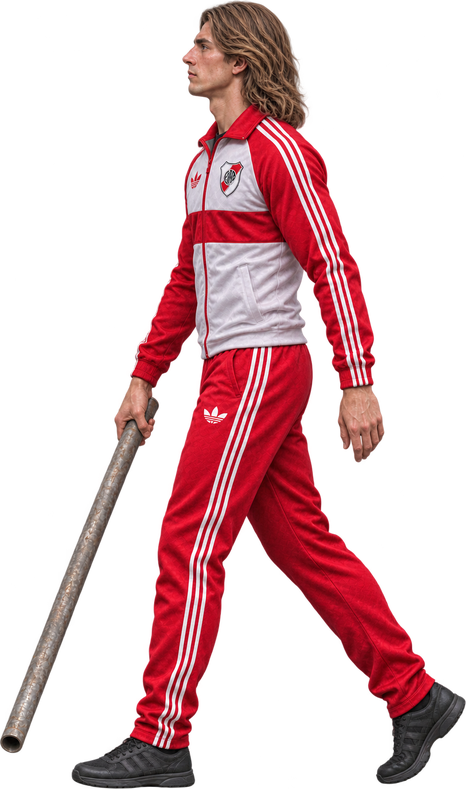
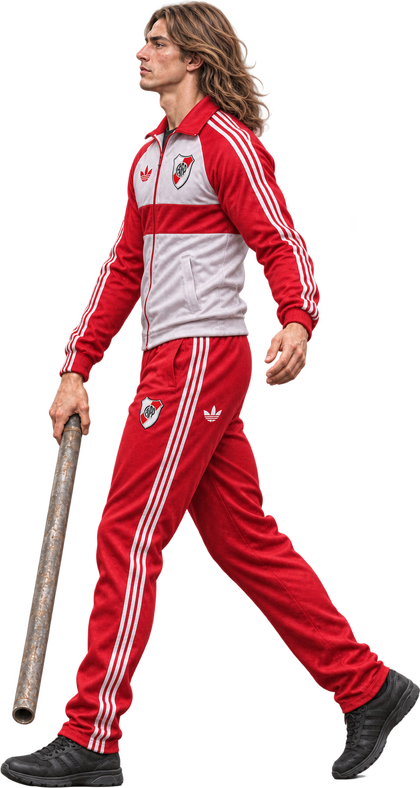
v228: El Tano y EL FLACO — caminata derecha 01·02 v2 + 03 avance + 04 izquierda adelante + 05·06 v2, izquierda v2; pie fijo con pivote por cuadro y velocidad sincronizada; alcance configurado
Claude-Session: https://claude.ai/code/session_01UBr8iwEGMpDd9N1ggVrmjK

diff --git a/js/sprites_enemigos.js b/js/sprites_enemigos.js
@@ -616,24 +616,25 @@ window.SPRITES_ENEMIGOS.pimpi_jefe = {"frames":{"guardiaDer":{"src":"assets/refe
 // PENDIENTE (no se integra): El Tano arco ascendente (la «recuperación» es una hoja de 15 figuras); EL FLACO ataques a la izquierda (mezclan
 // vistas de frente y perfil); PATOVA arco lateral (la «continuación» está rota) y ascendente (faltan continuación y recuperación) → no ataca;
 // VIKINGO ataques a la izquierda (solo 2 de 4 cuadros). Guardias de frente/espalda: entregadas, el motor todavía no las usa.
-// El Tano (micrófono con pie) — v226: caminata lateral v2 (derecha e izquierda, 6 cuadros c/u) con PIVOTE EN EL PIE DE APOYO (raiz) y
-// cuadro de extensión hacia la izquierda (ext_izq, PRUEBA). Hacia la izquierda: anticipación y recuperación espejadas (pendientes las propias).
+// El Tano (micrófono con pie) — v228 (PRUEBA JUGABLE): caminata derecha = 01 y 02 v2 · 03 «izquierda-avance» · 04 «izquierda-adelante» ·
+// 05 y 06 v2 (provisorios; falta el 05 de apoyo izquierdo). Izquierda = los 6 v2. Ritmo y pivote por el pie de apoyo (ver pasoMs y «pivote»).
+// Extensión del micrófono hacia la izquierda (ext_izq, prueba); hacia la derecha, pendiente.
 window.SPRITES_ENEMIGOS.el_tano = {
   frames: {
     guardia: {"src": "assets/enemigos/especiales/barras_river/el_tano/guardia.webp", "mira": "der", "ref": 800, "pie": 801.9, "ancla": 64.7, "otroLado": "guardia_izq"},
     guardia_izq: {"src": "assets/enemigos/especiales/barras_river/el_tano/guardia_izq.webp", "mira": "izq", "ref": 800, "pie": 800.0, "ancla": 143.2},
-    cam_derecha_01: {"src": "assets/enemigos/especiales/barras_river/el_tano/cam_derecha_01.webp", "mira": "der", "ref": 800, "pie": 780.0, "ancla": 176.5},
-    cam_derecha_02: {"src": "assets/enemigos/especiales/barras_river/el_tano/cam_derecha_02.webp", "mira": "der", "ref": 800, "pie": 799.5, "ancla": 169.4},
-    cam_derecha_03: {"src": "assets/enemigos/especiales/barras_river/el_tano/cam_derecha_03.webp", "mira": "der", "ref": 800, "pie": 792.4, "ancla": 152.3},
-    cam_derecha_04: {"src": "assets/enemigos/especiales/barras_river/el_tano/cam_derecha_04.webp", "mira": "der", "ref": 800, "pie": 715.0, "ancla": 240.4},
-    cam_derecha_05: {"src": "assets/enemigos/especiales/barras_river/el_tano/cam_derecha_05.webp", "mira": "der", "ref": 800, "pie": 786.7, "ancla": 188.0},
-    cam_derecha_06: {"src": "assets/enemigos/especiales/barras_river/el_tano/cam_derecha_06.webp", "mira": "der", "ref": 800, "pie": 771.4, "ancla": 107.5},
-    cam_izquierda_01: {"src": "assets/enemigos/especiales/barras_river/el_tano/cam_izquierda_01.webp", "mira": "izq", "ref": 800, "pie": 774.8, "ancla": 200.8},
-    cam_izquierda_02: {"src": "assets/enemigos/especiales/barras_river/el_tano/cam_izquierda_02.webp", "mira": "izq", "ref": 800, "pie": 798.6, "ancla": 181.7},
-    cam_izquierda_03: {"src": "assets/enemigos/especiales/barras_river/el_tano/cam_izquierda_03.webp", "mira": "izq", "ref": 800, "pie": 778.1, "ancla": 160.8},
-    cam_izquierda_04: {"src": "assets/enemigos/especiales/barras_river/el_tano/cam_izquierda_04.webp", "mira": "izq", "ref": 800, "pie": 700.8, "ancla": 258.9},
-    cam_izquierda_05: {"src": "assets/enemigos/especiales/barras_river/el_tano/cam_izquierda_05.webp", "mira": "izq", "ref": 800, "pie": 802.4, "ancla": 187.5},
-    cam_izquierda_06: {"src": "assets/enemigos/especiales/barras_river/el_tano/cam_izquierda_06.webp", "mira": "izq", "ref": 800, "pie": 791.0, "ancla": 196.0},
+    cam_derecha_01: {"src": "assets/enemigos/especiales/barras_river/el_tano/cam_derecha_01.webp", "mira": "der", "ref": 800, "pie": 780.0, "ancla": 147.1, "origen": "el-tano-caminar-derecha-01-v2.png", "pivote": 12.7},
+    cam_derecha_02: {"src": "assets/enemigos/especiales/barras_river/el_tano/cam_derecha_02.webp", "mira": "der", "ref": 800, "pie": 799.5, "ancla": 208.8, "origen": "el-tano-caminar-derecha-02-v2.png", "pivote": -17.0},
+    cam_derecha_03: {"src": "assets/enemigos/especiales/barras_river/el_tano/cam_derecha_03.webp", "mira": "der", "ref": 800, "pie": 781.0, "ancla": 129.6, "origen": "el-tano-caminar-derecha-03-izquierda-avance.png", "pivote": -16.7},
+    cam_derecha_04: {"src": "assets/enemigos/especiales/barras_river/el_tano/cam_derecha_04.webp", "mira": "der", "ref": 800, "pie": 773.8, "ancla": 151.7, "origen": "el-tano-caminar-derecha-04-izquierda-adelante.png", "pivote": 10.7},
+    cam_derecha_05: {"src": "assets/enemigos/especiales/barras_river/el_tano/cam_derecha_05.webp", "mira": "der", "ref": 800, "pie": 786.7, "ancla": 222.8, "origen": "el-tano-caminar-derecha-05-v2.png", "pivote": -15.0},
+    cam_derecha_06: {"src": "assets/enemigos/especiales/barras_river/el_tano/cam_derecha_06.webp", "mira": "der", "ref": 800, "pie": 771.4, "ancla": 48.8, "origen": "el-tano-caminar-derecha-06-v2.png", "pivote": 25.3},
+    cam_izquierda_01: {"src": "assets/enemigos/especiales/barras_river/el_tano/cam_izquierda_01.webp", "mira": "izq", "ref": 800, "pie": 774.8, "ancla": 249.7, "pivote": 21.1},
+    cam_izquierda_02: {"src": "assets/enemigos/especiales/barras_river/el_tano/cam_izquierda_02.webp", "mira": "izq", "ref": 800, "pie": 798.6, "ancla": 138.1, "pivote": -18.8},
+    cam_izquierda_03: {"src": "assets/enemigos/especiales/barras_river/el_tano/cam_izquierda_03.webp", "mira": "izq", "ref": 800, "pie": 778.1, "ancla": 43.0, "pivote": -50.8},
+    cam_izquierda_04: {"src": "assets/enemigos/especiales/barras_river/el_tano/cam_izquierda_04.webp", "mira": "izq", "ref": 800, "pie": 700.8, "ancla": 307.8, "pivote": 21.1},
+    cam_izquierda_05: {"src": "assets/enemigos/especiales/barras_river/el_tano/cam_izquierda_05.webp", "mira": "izq", "ref": 800, "pie": 802.4, "ancla": 175.9, "pivote": -5.0},
+    cam_izquierda_06: {"src": "assets/enemigos/especiales/barras_river/el_tano/cam_izquierda_06.webp", "mira": "izq", "ref": 800, "pie": 791.0, "ancla": 271.1, "pivote": 32.4},
     cam_frente_01: {"src": "assets/enemigos/especiales/barras_river/el_tano/cam_frente_01.webp", "mira": "frente", "ref": 800, "pie": 798.6, "ancla": 138.0},
     cam_frente_02: {"src": "assets/enemigos/especiales/barras_river/el_tano/cam_frente_02.webp", "mira": "frente", "ref": 800, "pie": 803.8, "ancla": 140.4},
     cam_frente_03: {"src": "assets/enemigos/especiales/barras_river/el_tano/cam_frente_03.webp", "mira": "frente", "ref": 800, "pie": 798.6, "ancla": 136.1},
@@ -672,29 +673,29 @@ window.SPRITES_ENEMIGOS.el_tano = {
   // v226 — raizMedida: lo que el pie de apoyo retrocede entre cuadros (px a escala 1), medido en los dibujos. v227: NO se usa — con el pie
   // clavado algunos cuadros quedaban quietos casi 1 s (los dibujos no tienen pasos parejos) y la caminata se veía trabada.
   raizMedida: {"der": {"d": [14.7, 30.6, 113.4, 26.3, 83.7, 31.5], "total": 300.2}, "izq": {"d": [9.9, 17.7, 121.6, 23.7, 87.1, 38.4], "total": 298.4}},
-  pasoMs: { caminaDer: 140, caminaIzq: 140 },   // v227: cadencia por tiempo (140 ms por cuadro, como los referentes)
+  pasoMs: { caminaDer: 218, caminaIzq: 249 },   // v228: ritmo = avance medio del pie de apoyo ÷ velocidad (js/niveles.js velFactor); pivote por cuadro en el ancla
+  pieFijo: { caminaDer: 43.7, caminaIzq: 49.7 },   // v228: avance por cuadro (px a escala 1) = avance medio del pie apoyado
   zancada: 34, zancadaLado: 38
 };
-// EL FLACO (caño de plomería) — v226: caminata lateral v2 hacia la DERECHA con pivote en el pie de apoyo (raiz). La v2 hacia la izquierda
-// NO se usa: 4 de sus 6 cuadros (01, 03, 04 y 06) miran a la derecha → sigue la caminata izquierda anterior (pendiente).
-// Estocada con el caño (ext_der / ext_izq, PRUEBA) entre la anticipación y la recuperación del arco lateral. Una sola escala de cuerpo
-// (ref = alto de pie en 800 px) en guardia, caminata y ataque; el lienzo y el caño no cuentan. Anclas de los ataques = entre los pies.
+// EL FLACO (caño de plomería) — v228 (PRUEBA JUGABLE): caminata derecha = 01 y 02 v2 · 03 «izquierda-avance» · 04 «izquierda-adelante» ·
+// 05 y 06 v2 (provisorios). Izquierda = los 6 v2 tal como se pidió: 01, 03, 04 y 06 están dibujados mirando a la DERECHA (mira 'der') y el
+// motor los espeja al caminar a la izquierda; 02 y 05 miran a la izquierda. Estocada con ext_der / ext_izq (prueba). Escala única (ref 800).
 window.SPRITES_ENEMIGOS.el_flaco = {
   frames: {
     guardia: {"src": "assets/enemigos/especiales/barras_river/el_flaco/guardia.webp", "mira": "der", "ref": 800, "pie": 802.1, "ancla": 70.4, "otroLado": "guardia_izq"},
     guardia_izq: {"src": "assets/enemigos/especiales/barras_river/el_flaco/guardia_izq.webp", "mira": "izq", "ref": 800, "pie": 792.5, "ancla": 196.4},
-    cam_derecha_01: {"src": "assets/enemigos/especiales/barras_river/el_flaco/cam_derecha_01.webp", "mira": "der", "ref": 800, "pie": 774.5, "ancla": 238.2},
-    cam_derecha_02: {"src": "assets/enemigos/especiales/barras_river/el_flaco/cam_derecha_02.webp", "mira": "der", "ref": 800, "pie": 781.9, "ancla": 195.3},
-    cam_derecha_03: {"src": "assets/enemigos/especiales/barras_river/el_flaco/cam_derecha_03.webp", "mira": "der", "ref": 800, "pie": 792.0, "ancla": 139.8},
-    cam_derecha_04: {"src": "assets/enemigos/especiales/barras_river/el_flaco/cam_derecha_04.webp", "mira": "der", "ref": 800, "pie": 772.0, "ancla": 226.1},
-    cam_derecha_05: {"src": "assets/enemigos/especiales/barras_river/el_flaco/cam_derecha_05.webp", "mira": "der", "ref": 800, "pie": 774.9, "ancla": 210.2},
-    cam_derecha_06: {"src": "assets/enemigos/especiales/barras_river/el_flaco/cam_derecha_06.webp", "mira": "der", "ref": 800, "pie": 782.9, "ancla": 133.4},
-    cam_izquierda_01: {"src": "assets/enemigos/especiales/barras_river/el_flaco/cam_izquierda_01.webp", "mira": "izq", "ref": 800, "pie": 788.8, "ancla": 243.9},
-    cam_izquierda_02: {"src": "assets/enemigos/especiales/barras_river/el_flaco/cam_izquierda_02.webp", "mira": "izq", "ref": 800, "pie": 787.7, "ancla": 239.6},
-    cam_izquierda_03: {"src": "assets/enemigos/especiales/barras_river/el_flaco/cam_izquierda_03.webp", "mira": "izq", "ref": 800, "pie": 785.6, "ancla": 212.9},
-    cam_izquierda_04: {"src": "assets/enemigos/especiales/barras_river/el_flaco/cam_izquierda_04.webp", "mira": "izq", "ref": 800, "pie": 798.9, "ancla": 247.6},
-    cam_izquierda_05: {"src": "assets/enemigos/especiales/barras_river/el_flaco/cam_izquierda_05.webp", "mira": "izq", "ref": 800, "pie": 793.1, "ancla": 237.0},
-    cam_izquierda_06: {"src": "assets/enemigos/especiales/barras_river/el_flaco/cam_izquierda_06.webp", "mira": "izq", "ref": 800, "pie": 780.3, "ancla": 244.4},
+    cam_derecha_01: {"src": "assets/enemigos/especiales/barras_river/el_flaco/cam_derecha_01.webp", "mira": "der", "ref": 800, "pie": 774.5, "ancla": 193.2, "origen": "el-flaco-caminar-derecha-01-v2.png", "pivote": 19.4},
+    cam_derecha_02: {"src": "assets/enemigos/especiales/barras_river/el_flaco/cam_derecha_02.webp", "mira": "der", "ref": 800, "pie": 781.9, "ancla": 255.1, "origen": "el-flaco-caminar-derecha-02-v2.png", "pivote": -25.8},
+    cam_derecha_03: {"src": "assets/enemigos/especiales/barras_river/el_flaco/cam_derecha_03.webp", "mira": "der", "ref": 800, "pie": 786.6, "ancla": 169.0, "origen": "el-flaco-caminar-derecha-03-izquierda-avance.png", "pivote": -26.9},
+    cam_derecha_04: {"src": "assets/enemigos/especiales/barras_river/el_flaco/cam_derecha_04.webp", "mira": "der", "ref": 800, "pie": 782.9, "ancla": 224.7, "origen": "el-flaco-caminar-derecha-04-izquierda-adelante.png", "pivote": 12.9},
+    cam_derecha_05: {"src": "assets/enemigos/especiales/barras_river/el_flaco/cam_derecha_05.webp", "mira": "der", "ref": 800, "pie": 774.9, "ancla": 236.2, "origen": "el-flaco-caminar-derecha-05-v2.png", "pivote": -11.2},
+    cam_derecha_06: {"src": "assets/enemigos/especiales/barras_river/el_flaco/cam_derecha_06.webp", "mira": "der", "ref": 800, "pie": 782.9, "ancla": 60.1, "origen": "el-flaco-caminar-derecha-06-v2.png", "pivote": 31.6},
+    cam_izquierda_01: {"src": "assets/enemigos/especiales/barras_river/el_flaco/cam_izquierda_01.webp", "mira": "der", "ref": 800, "pie": 777.5, "ancla": 190.4, "origen": "el-flaco-caminar-izquierda-01-v2.png", "pivote": 6.5},
+    cam_izquierda_02: {"src": "assets/enemigos/especiales/barras_river/el_flaco/cam_izquierda_02.webp", "mira": "izq", "ref": 800, "pie": 786.7, "ancla": 152.3, "origen": "el-flaco-caminar-izquierda-02-v2.png", "pivote": -15.8},
+    cam_izquierda_03: {"src": "assets/enemigos/especiales/barras_river/el_flaco/cam_izquierda_03.webp", "mira": "der", "ref": 800, "pie": 789.9, "ancla": 124.1, "origen": "el-flaco-caminar-izquierda-03-v2.png", "pivote": 17.8},
+    cam_izquierda_04: {"src": "assets/enemigos/especiales/barras_river/el_flaco/cam_izquierda_04.webp", "mira": "der", "ref": 800, "pie": 790.4, "ancla": 188.5, "origen": "el-flaco-caminar-izquierda-04-v2.png", "pivote": -6.5},
+    cam_izquierda_05: {"src": "assets/enemigos/especiales/barras_river/el_flaco/cam_izquierda_05.webp", "mira": "izq", "ref": 800, "pie": 778.7, "ancla": 141.4, "origen": "el-flaco-caminar-izquierda-05-v2.png", "pivote": -22.8},
+    cam_izquierda_06: {"src": "assets/enemigos/especiales/barras_river/el_flaco/cam_izquierda_06.webp", "mira": "der", "ref": 800, "pie": 772.8, "ancla": 93.7, "origen": "el-flaco-caminar-izquierda-06-v2.png", "pivote": 20.8},
     cam_frente_01: {"src": "assets/enemigos/especiales/barras_river/el_flaco/cam_frente_01.webp", "mira": "frente", "ref": 800, "pie": 811.2, "ancla": 121.1},
     cam_frente_02: {"src": "assets/enemigos/especiales/barras_river/el_flaco/cam_frente_02.webp", "mira": "frente", "ref": 800, "pie": 802.7, "ancla": 124.9},
     cam_frente_03: {"src": "assets/enemigos/especiales/barras_river/el_flaco/cam_frente_03.webp", "mira": "frente", "ref": 800, "pie": 801.1, "ancla": 122.7},
@@ -738,7 +739,8 @@ window.SPRITES_ENEMIGOS.el_flaco = {
   // v226 — raizMedida: lo que el pie de apoyo retrocede entre cuadros (px a escala 1), medido en los dibujos. v227: NO se usa — con el pie
   // clavado algunos cuadros quedaban quietos casi 1 s (los dibujos no tienen pasos parejos) y la caminata se veía trabada.
   raizMedida: {"der": {"d": [11.6, 87.1, 50.0, 10.8, 99.6, 44.9], "total": 304.0}},
-  pasoMs: { caminaDer: 140, caminaIzq: 140 },   // v227: cadencia por tiempo (140 ms por cuadro, como los referentes)
+  pasoMs: { caminaDer: 249, caminaIzq: 197 },   // v228: ritmo = avance medio del pie de apoyo ÷ velocidad (js/niveles.js velFactor); pivote por cuadro en el ancla
+  pieFijo: { caminaDer: 57.2, caminaIzq: 45.3 },   // v228: avance por cuadro (px a escala 1) = avance medio del pie apoyado
   zancada: 34, zancadaLado: 38
 };
 // PATOVA (cadena)

diff --git a/js/juego.js b/js/juego.js
@@ -312,7 +312,7 @@
       jefe: !!def.jefe, especial: !!def.especial, agarrable: st.agarrable, dolor: st.dolor,
       // v193: velocidad de caminata propia (px/s a escala 1). Barras comunes (tipo 'comun', no jefes ni especiales) × 0,85;
       // referentes/jefes, policías y especiales sin cambio. velRefPaso = la velocidad con la que se diseñó su cadencia (la anterior).
-      velCaminar: VEL_ENEMIGO * (def.jefe ? 0.8 : 1) * (esBarraComun(def) ? FACTOR_CAMINATA_BARRAS : 1), velRefPaso: VEL_ENEMIGO * (def.jefe ? 0.8 : 1),
+      velCaminar: VEL_ENEMIGO * (def.jefe ? 0.8 : 1) * (esBarraComun(def) ? FACTOR_CAMINATA_BARRAS : 1) * (def.velFactor || 1), velRefPaso: VEL_ENEMIGO * (def.jefe ? 0.8 : 1) * (def.velFactor || 1),   // v228: velFactor (El Tano / EL FLACO: velocidad sincronizada con su paso)
       barraComun: esBarraComun(def),
       barrasExtra: (st.barras || 1) - 1, fase: 1,   // v29: El Abuelo = 1 barra extra (una sola recuperación)
       iaPolicia: def.tipo === 'policia', escudazosSeguidos: 0, golpesSinAccion: 0, carga: 0,   // v32: IA propia del policía · v69: los cuatro + carga del especial
@@ -1942,8 +1942,9 @@
      exactamente lo mismo que antes (1 s por s); al 85 % da 0,85 s por s → el ciclo dura /0,85 (180 → 211,8 ms por cuadro) y el paso
      mide lo mismo; bloqueado no avanza. Tope 1,5 × dt (empujones). */
   function avanzarReloj(e, dx, dy, dt) {
-    const v = e.velRefPaso || VEL_ENEMIGO;
-    e.relojPaso = (e.relojPaso || 0) + Math.min(dt * 1.5, Math.hypot(dx, dy / 0.7) / v);
+    // v228: El Tano / EL FLACO (velFactor): el paso dibujado se achica con la profundidad → el reloj corre según la escala, así el pie apoyado no patina
+    const pe = e.luch && e.luch.def && e.luch.def.velFactor ? escalaEn(e.y) : 1, v = (e.velRefPaso || VEL_ENEMIGO) * pe;
+    e.relojPaso = (e.relojPaso || 0) + Math.min(dt * (pe < 1 ? 1.5 / pe : 1.5), Math.hypot(dx, dy / 0.7) / v);
   }
   const AND8 = { velNormal: VEL_ENEMIGO * FACTOR_CAMINATA_BARRAS, profundidad: 0.7, rango: [0.75, 1.35], arranca: 0.30, arrancaT: 0.04, frena: 0.12, frenaT: 0.10, giro: 32, snap: 100, sostener: 0.05, reinicio: 0.35 };
   function andar8(e, dx, dy, dt) {
@@ -2045,7 +2046,14 @@
         e.rmOff = pos - c - RZ.total / (2 * RZ.d.length); e.rmCuadro = i; return lista[i];   // desfase CONSTANTE: entre cuadros el dibujo salta justo d
       }
       const nom = lista === an.caminaAbajo ? 'caminaAbajo' : lista === an.caminaArriba ? 'caminaArriba' : lista === an.caminaIzq ? 'caminaIzq' : 'caminaDer', ms = msPaso(D, nom);
-      if (ms) return lista[Math.floor((e.relojPaso || 0) * 1000 / ms) % lista.length];   // v93: por tiempo (El Gallego de frente)
+      if (ms) {
+        const fr = (e.relojPaso || 0) * 1000 / ms;
+        // v228 — PIE FIJO (El Tano / EL FLACO): el dibujo queda quieto en el piso mientras dura el cuadro y avanza de golpe al cambiar
+        // (con el pivote de cada cuadro, el salto = lo que retrocede el pie apoyado). Solo si camina hacia donde mira.
+        const PF = D.pieFijo && D.pieFijo[nom];
+        if (PF && (e.mx || 0) * e.face > 0) e.rmOff = ((fr % 1) - 0.5) * PF;
+        return lista[Math.floor(fr) % lista.length];   // v93: por tiempo (El Gallego de frente)
+      }
       return lista[Math.floor(e.recorrido / (z * escalaEn(e.y))) % lista.length];
     }
     return an.quieto;

diff --git a/js/niveles.js b/js/niveles.js
@@ -225,11 +225,9 @@
     // medida en el cuadro de efecto hasta la punta del objeto. Cuadros en js/sprites_enemigos.js. PATOVA: sinAtaque hasta que llegue
     // una secuencia de cadena completa (la lateral tiene la «continuación» rota y la ascendente solo 2 de 4 cuadros).
     el_tano:           { id: 'el_tano', tipo: 'barra_river_especial', nombre: 'El Tano', especial: true, sprite: null, mira: 1,
-                         soloGolpe: 'pina', nombreGolpe: 'Golpe de micrófono', alcance: { pina: [40, 150] }, distancia: 115,
-                         alcanceSecu: { lateral: { der: [40, 150], izq: [60, 265] } } },   // v227: hacia la izquierda, el brazo extendido (punta del micrófono ≈ 273)
+                         soloGolpe: 'pina', nombreGolpe: 'Golpe de micrófono', alcance: { pina: [40, 150] }, distancia: 115, velFactor: 1.33 },   // v228: sin alcance propio por golpe: usa el configurado (alcance.pina). velFactor: 200 px/s, sincronizado con su paso
     el_flaco:          { id: 'el_flaco', tipo: 'barra_river_especial', nombre: 'EL FLACO', especial: true, sprite: null, mira: 1,
-                         soloGolpe: 'pina', nombreGolpe: 'Cañazo', alcance: { pina: [40, 170] }, distancia: 125,
-                         alcanceSecu: { lateral: [40, 180], ascendente: [40, 160], estocada: { der: [80, 430], izq: [80, 340] } } },   // v227: punta del caño medida en cada cuadro de impacto (escala corregida)
+                         soloGolpe: 'pina', nombreGolpe: 'Cañazo', alcance: { pina: [40, 170] }, distancia: 125, velFactor: 1.53 },   // v228: sin alcance propio por golpe: usa el configurado (alcance.pina). velFactor: 230 px/s, sincronizado con su paso
     patova:            { id: 'patova', tipo: 'barra_river_especial', nombre: 'PATOVA', especial: true, sprite: null, mira: 1,
                          soloGolpe: 'pina', nombreGolpe: 'Cadenazo', sinAtaque: true, alcance: { pina: [40, 160] }, distancia: 120 },
     vikingo:           { id: 'vikingo', tipo: 'barra_river_especial', nombre: 'VIKINGO', especial: true, sprite: null, mira: 1,

diff --git a/juego.html b/juego.html
@@ -18,11 +18,11 @@
   <script src="js/identidad.js?v=168"></script>
   <script src="js/reglas_combate.js?v=168"></script>
   <script src="js/combate.js?v=168"></script>
-  <script src="js/niveles.js?v=227"></script>
+  <script src="js/niveles.js?v=228"></script>
   <script src="js/defensa.js?v=168"></script>
   <script src="js/cajas_arte.js?v=168"></script>
   <script src="js/sprites_referentes.js?v=168"></script>
-  <script src="js/sprites_enemigos.js?v=227"></script>
+  <script src="js/sprites_enemigos.js?v=228"></script>
   <script src="js/sprites_clubes.js?v=168"></script>
   <script src="js/atlas_clubes.js?v=224"></script>
   <script src="js/caminatas_river.js?v=193b"></script>
@@ -35,7 +35,7 @@
   <script src="js/damajuana.js?v=168"></script>
   <script src="js/campana.js?v=224"></script>
   <script src="js/perspectiva.js?v=168"></script>
-  <script src="js/escala_arte.js?v=227"></script>
-  <script src="js/juego.js?v=227"></script>
+  <script src="js/escala_arte.js?v=228"></script>
+  <script src="js/juego.js?v=228"></script>
 </body>
 </html>

diff --git a/batalla.html b/batalla.html
@@ -42,7 +42,7 @@
   <script src="js/defensa.js?v=168"></script>
   <script src="js/sprites_referentes.js?v=168"></script>
   <script src="js/sprites_pistola.js?v=168"></script>
-  <script src="js/sprites_enemigos.js?v=227"></script>
+  <script src="js/sprites_enemigos.js?v=228"></script>
   <script src="js/sprites_clubes.js?v=168"></script>
   <script src="js/atlas_clubes.js?v=168"></script>
 <script src="js/sprites_hooligans.js?v=168"></script>
@@ -51,7 +51,7 @@
   <script src="js/musica.js?v=168"></script>
   <script src="js/poder.js?v=168"></script>
   <script src="js/damajuana.js?v=168"></script>
-  <script src="js/escala_arte.js?v=227"></script>
+  <script src="js/escala_arte.js?v=228"></script>
   <script src="js/batalla.js?v=199"></script>
 </body>
 </html>
